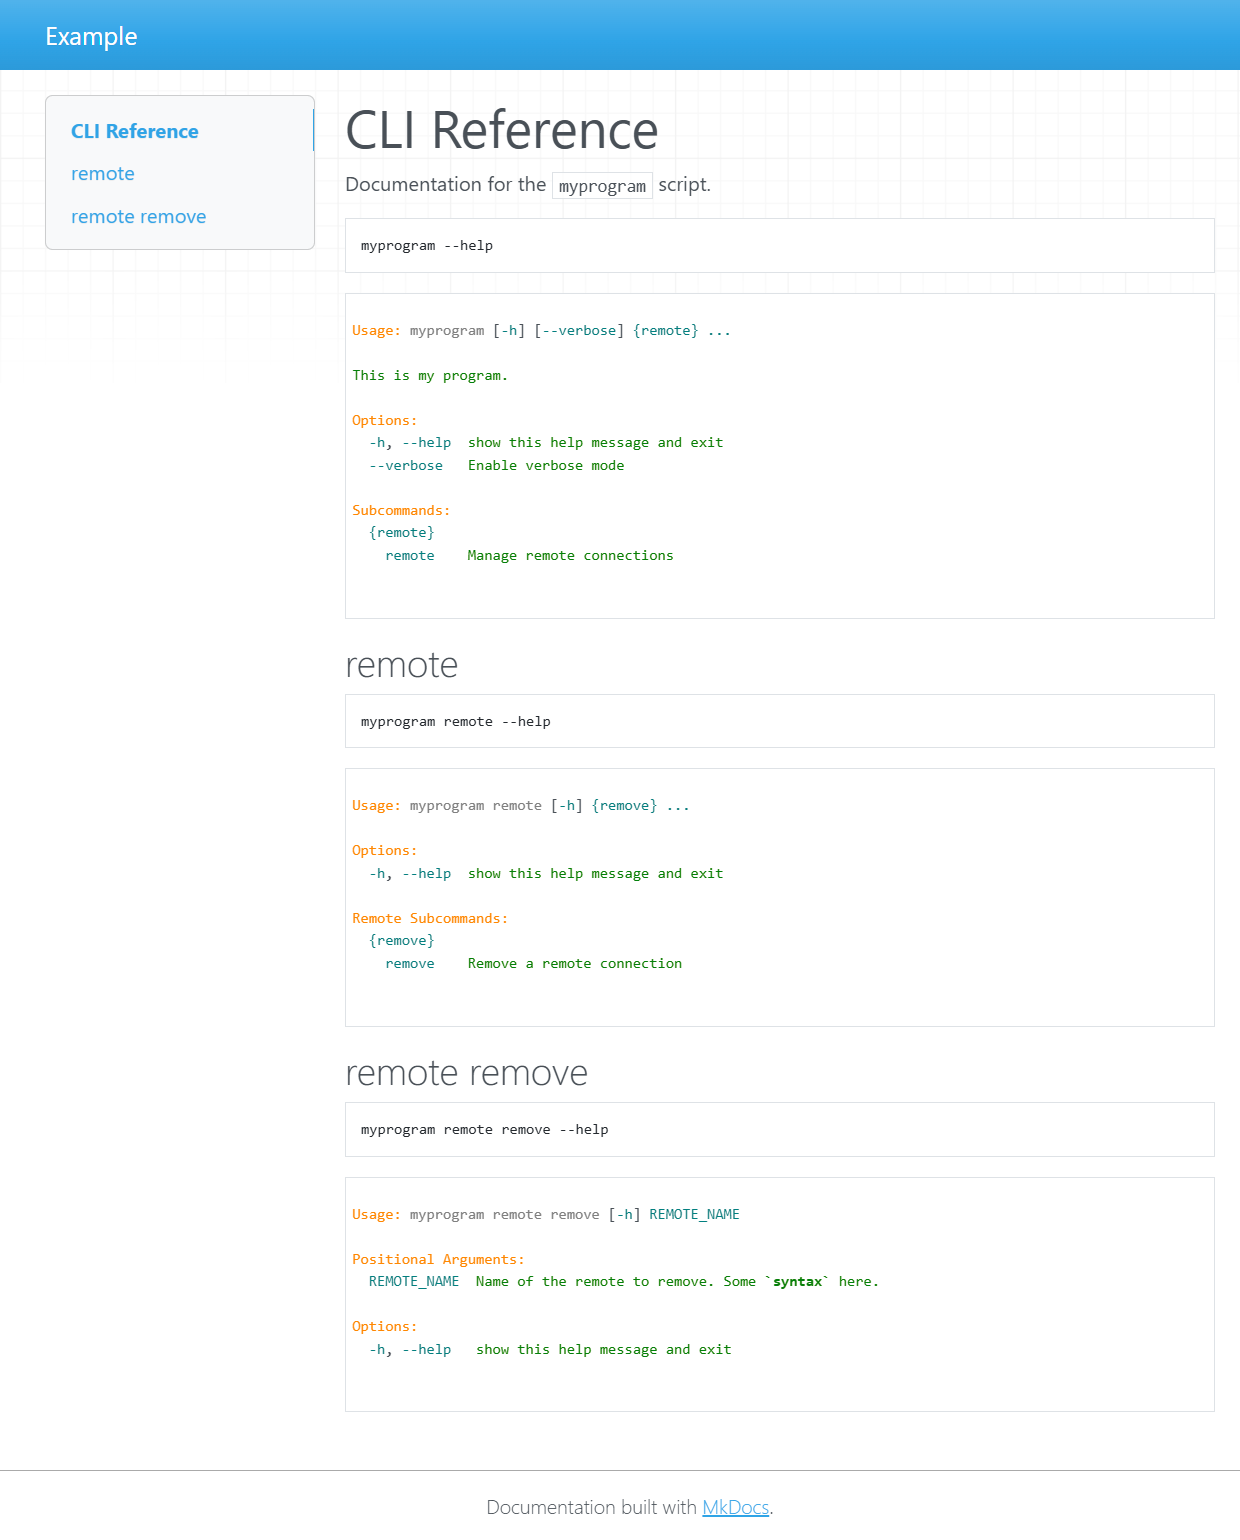
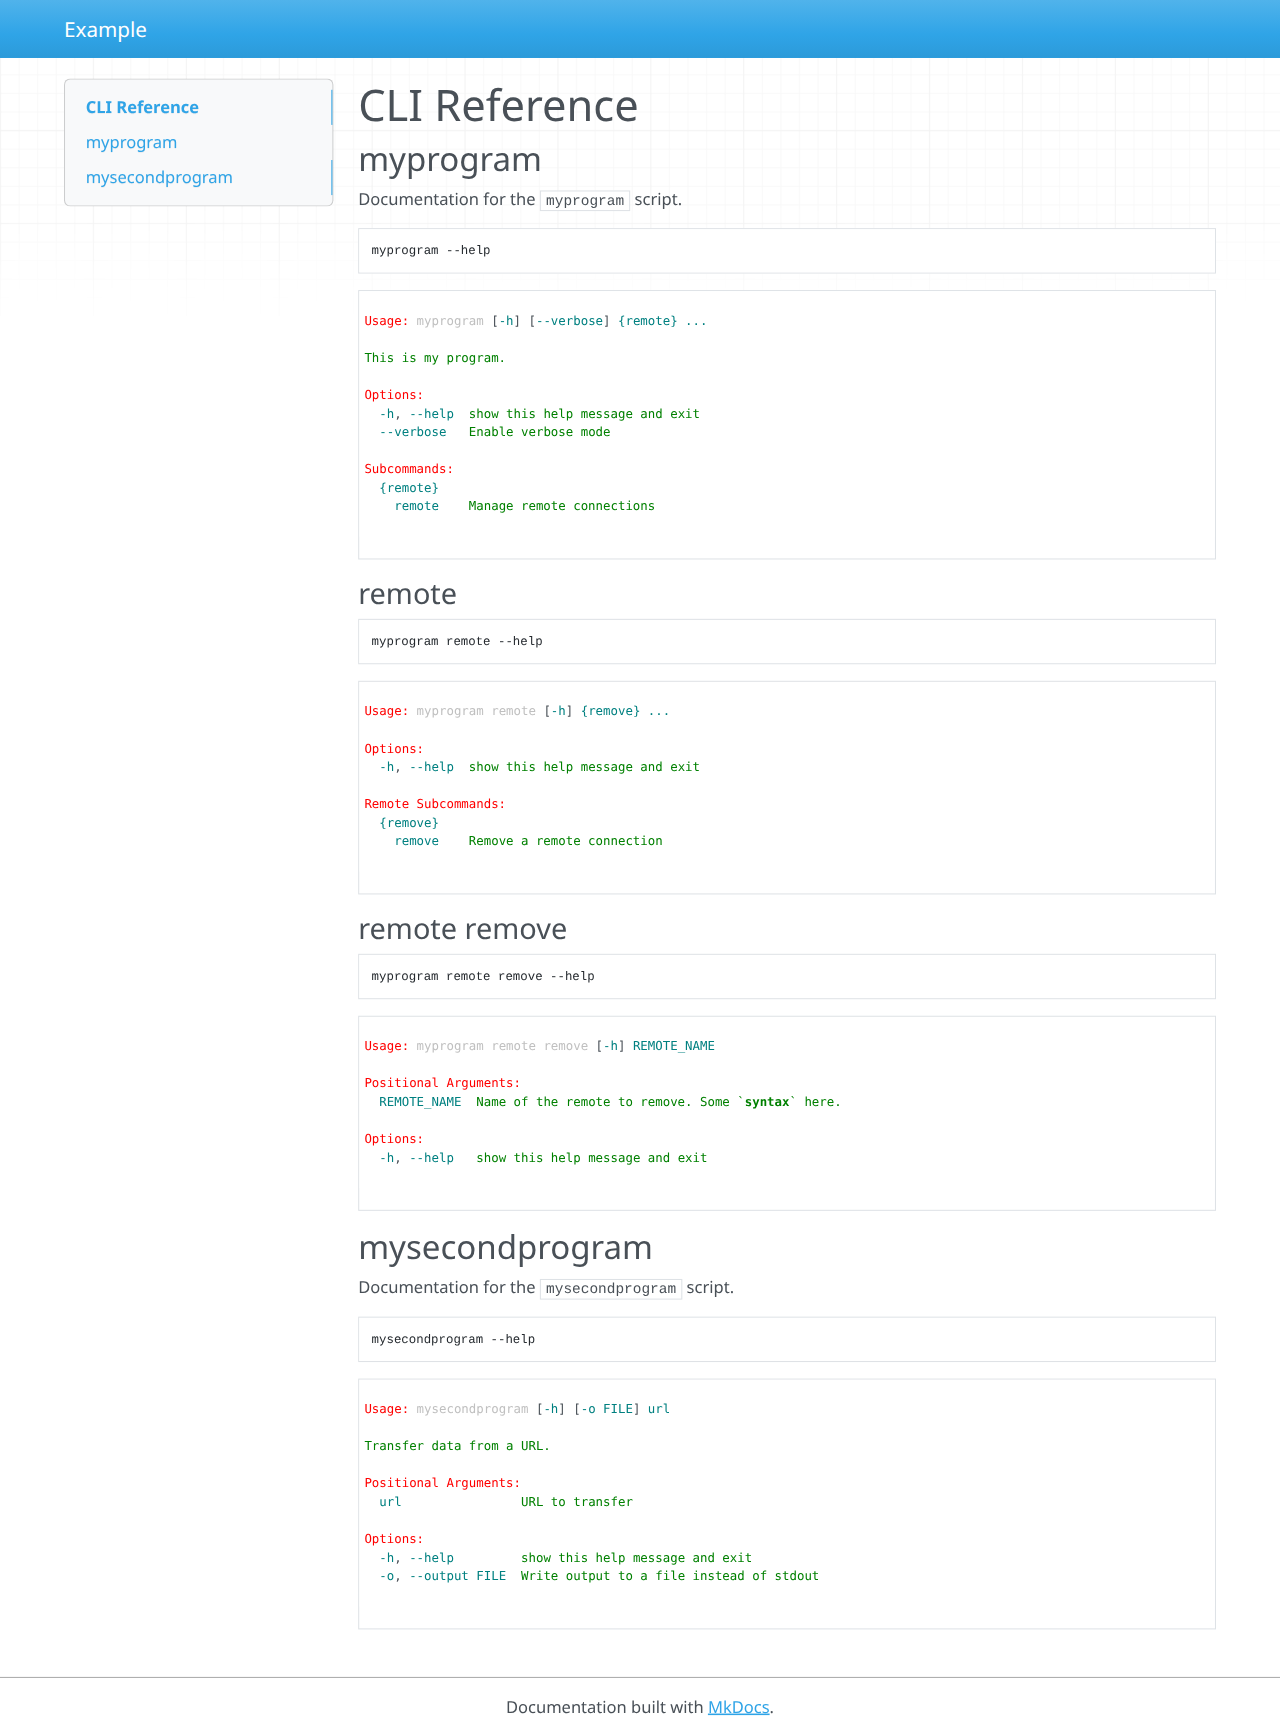
docs: document package configuration and update CLI examples

diff --git a/example/parser.py b/example/parser.py
@@ -16,3 +16,20 @@ def sample_parser() -> argparse.ArgumentParser:
     )
     remove_parser.add_argument("name", help="Name of the remote to remove. Some `syntax` here.", metavar="REMOTE_NAME")
     return parser
+
+
+def main() -> None:
+    """Run the example console script."""
+    sample_parser().parse_args()
+
+
+def download() -> None:
+    """Parse arguments for a curl-inspired console script."""
+    parser = argparse.ArgumentParser(
+        prog="mysecondprogram",
+        description="Transfer data from a URL.",
+        formatter_class=RichHelpFormatter,
+    )
+    parser.add_argument("url", help="URL to transfer")
+    parser.add_argument("-o", "--output", metavar="FILE", help="Write output to a file instead of stdout")
+    parser.parse_args()

diff --git a/README.md b/README.md
@@ -12,39 +12,106 @@ It renders commands, sub commands and sub-sub commands which can have rich help 
 
 ## Installation
 
-Install from Pypi:
-
 ```bash
 pip install mkdocs-rich-argparse
 ```
 
 ## Usage
 
-In your `mkdocs.yml` configuration file, add the plugin and configure it with the module and factory to document:
+**TL;DR:** Set `package` to your installed CLI package's project name and add
+`cli.md` to your navigation.
 
-```yaml
-plugins:
-    - mkdocs-rich-argparse:
-        module: my_module
-        factory: my_factory_function
+1. Define your commands in your package's `pyproject.toml` using `[project.scripts]`:
 
-nav:
-   - CLI Reference: cli.md
-```
+   ```toml
+   [project]
+   name = "my-package"
 
-Where `my_module` is the Python module containing your argparse parser factory function, and `my_factory_function` is the specific function that returns an argparse parser object. It should be callable without arguments. You can optionally add `path` to specify the path to the module if it's not in the Python path.
+   [project.scripts]
+   myprogram = "my_package.cli:main"
+   mysecondprogram = "my_package.cli:download"
+   ```
 
-When serving or building your MkDocs site, the plugin will generate a `cli.md` file containing the documentation for the specified argparse parser.
+2. Ensure your CLI package is installed alongside the plugin so its script
+   metadata is available.
+
+3. In `mkdocs.yml`, set `package` to the `[project].name` value from your
+   `pyproject.toml` and add the generated page to your navigation:
+
+   ```yaml
+   plugins:
+       - mkdocs-rich-argparse:
+           package: my-package
+
+   nav:
+       - CLI Reference: cli.md
+   ```
+
+Parsers are captured at `parse_args()` or `parse_known_args()`. Code before
+parsing still executes during the documentation build.
 
 See the [example/](example/) directory for a minimal example and a custom styled example.
 
 [![Screenshot of example](https://github.com/i-VRESSE/mkdocs_rich_argparse/raw/main/example/screenshot.png)](https://github.com/i-VRESSE/mkdocs_rich_argparse/raw/main/example/screenshot.png)
 
-### Colors in Continuous Integration
+## Configuration
 
-If you are building the mkdocs site in a Continuous Integration (CI) environment, the colors might not render correctly. To fix this add [TTY_COMPATIBLE=1 and TTY_INTERACTIVE=0 environment variables](https://rich.readthedocs.io/en/stable/console.html#environment-variables) to your CI configuration.
+`package` is required. All other plugin settings are optional and belong under
+`mkdocs-rich-argparse` in `mkdocs.yml`:
 
-For example in GitHub Actions add the following to your workflow file:
+| Setting | Default | Description |
+| --- | --- | --- |
+| `src_uri` | `cli.md` | Generated page path relative to the docs directory. Update `nav` to match. |
+| `heading` | `CLI Reference` | Top-level heading of the generated page. |
+| `order` | `[]` | Script names to document first, in the specified order. |
+| `styles` | See below | Rich styles for the generated help text. |
+
+For example, customize the page path and heading and put your main script first:
+
+```yaml
+plugins:
+  - mkdocs-rich-argparse:
+      package: my-package
+      src_uri: reference/commands.md
+      heading: Commands
+      order:
+        - myprogram
+
+nav:
+  - Commands: reference/commands.md
+```
+
+Scripts listed in `order` appear first, in the specified order.
+All remaining scripts are sorted alphabetically.
+Unknown or duplicate script names cause a build error.
+If no `order` is specified, all scripts are sorted alphabetically.
+
+### Styles
+
+The `styles` mapping accepts Rich style strings for `args`, `groups`, `help`,
+`metavar`, `syntax`, `text`, and `default`. The plugin sets `help` and `text` to
+`green` by default so they remain visible in dark mode. Other values keep the
+current `RichHelpFormatter` styles unless overridden.
+
+```yaml
+plugins:
+  - mkdocs-rich-argparse:
+      package: my-package
+      styles:
+        args: bright_red
+        groups: bright_green
+        metavar: bright_magenta
+        syntax: dark_orange
+        help: bright_cyan
+        text: bright_yellow
+        default: bright_black
+```
+
+## Colors in Continuous Integration
+
+To preserve Rich colors in CI, set these
+[environment variables](https://rich.readthedocs.io/en/stable/console.html#environment-variables)
+(GitHub Actions example):
 
 ```yaml
 env:

diff --git a/example/README.md b/example/README.md
@@ -1,16 +1,24 @@
-To generate CLI documentation from a argparse parser from [parser.py](parser.py) run:
+To generate CLI documentation for both console scripts in [parser.py](parser.py),
+install both the plugin and the example distribution, then run:
 
 ```bash
-pip install -e ..
+pip install -e .. -e .
 mkdocs serve
 ```
 
 And visit [http://127.0.0.1:8000/cli/](http://127.0.0.1:8000/cli/).
 
+The page documents `myprogram`, modeled after `git remote remove`, and
+`mysecondprogram`, modeled after `curl`, with a URL argument and an output option.
+
+To build static HTML instead, run `mkdocs build --strict`. The CLI page is written
+to `site/cli/index.html`.
+
 It should look something like this:
 [![Screenshot](screenshot.png)](screenshot.png)
 
-The plugin can be further configured see [mkdocs-custom.yml][mkdocs-custom.yml] for an example.
+The plugin can be further configured see [mkdocs-custom.yml](mkdocs-custom.yml) for an example.
+That configuration uses `order` to document `mysecondprogram` before `myprogram`.
 
 ```shell
 mkdocs build -f mkdocs-custom.yml
